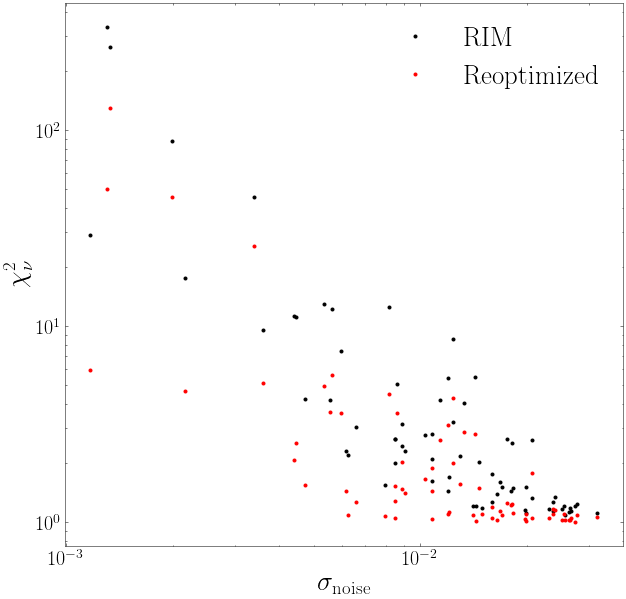
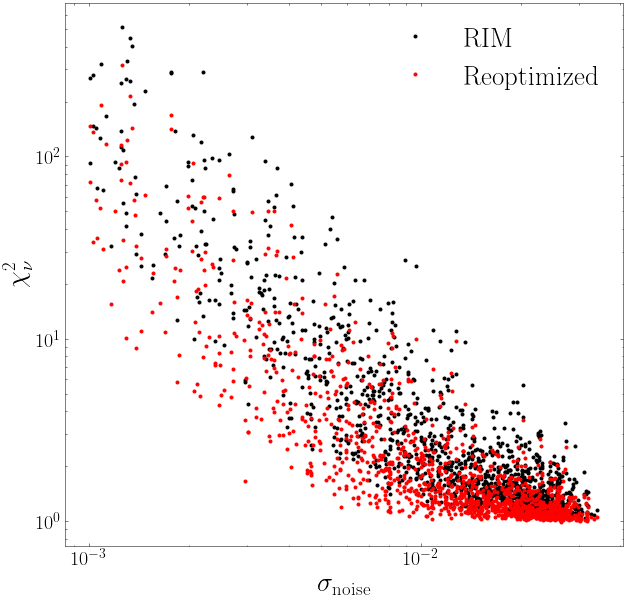
Started preprocessing of horseshoe
Former-commit-id: d2c39b6bad3ec682ea1de74edd06813ea70fc17f
Former-commit-id: e9efaad84a58d655d824be1696b84fe313f1a66d [formerly 04be38bf59bf8195f3d8e57a870bb16df1fab88e]
Former-commit-id: d9aed00347db1cf0688510c53605b65126800ca6

diff --git a/scripts/rim_results_v4_and_optim_posterior2.py b/scripts/rim_results_v4_and_optim_posterior2.py
@@ -107,7 +107,7 @@ def distributed_strategy(args):
             g.create_dataset(name="chi_squared",                            shape=[data_len, rim.steps],                                                        dtype=np.float32)
             g.create_dataset(name="chi_squared_reoptimized",                shape=[data_len, rim.steps],                                                        dtype=np.float32)
             g.create_dataset(name="chi_squared_reoptimized_series",         shape=[data_len, rim.steps, args.re_optimize_steps],                                dtype=np.float32)
-            g.create_dataset(name="chi_squared_reoptimized_mean_pred_series", shape=[data_len, rim.steps, args.re_optimize_steps],                                dtype=np.float32)
+            g.create_dataset(name="chi_squared_reoptimized_mean_pred_series", shape=[data_len, rim.steps, args.re_optimize_steps - args.burn_in],                                dtype=np.float32)
             g.create_dataset(name="sampled_chi_squared_reoptimized_series", shape=[data_len, args.re_optimize_steps],                                           dtype=np.float32)
             g.create_dataset(name="source_optim_mse",                       shape=[data_len],                                                                   dtype=np.float32)
             g.create_dataset(name="source_optim_mse_series",                shape=[data_len, args.re_optimize_steps],                                           dtype=np.float32)
@@ -178,28 +178,29 @@ def distributed_strategy(args):
                 kappa_best = kappa_pred[-1]
                 source_mse_best = tf.reduce_mean((source_best - source) ** 2)
                 kappa_mse_best = tf.reduce_mean((kappa_best - log_10(kappa)) ** 2)
+
+                # ===================== VAE SAMPLING for PRIOR ==============================
+                # Latent code of model predictions
+                z_source, _ = source_vae.encoder(source_o)
+                z_kappa, _ = kappa_vae.encoder(log_10(kappa_o))
+
+                # L1 distance with ground truth in latent space -- this is changed by an user defined value when using real data
+                # z_source_std = tf.abs(z_source - z_source_gt)
+                # z_kappa_std = tf.abs(z_kappa - z_kappa_gt)
+                z_source_std = args.source_vae_ball_size
+                z_kappa_std = args.kappa_vae_ball_size
+
+                # Sample latent code, then decode and forward
+                z_s = tf.random.normal(shape=[args.sample_size, source_vae.latent_size], mean=z_source, stddev=z_source_std)
+                z_k = tf.random.normal(shape=[args.sample_size, kappa_vae.latent_size], mean=z_kappa, stddev=z_kappa_std)
+                sampled_source = tf.nn.relu(source_vae.decode(z_s))
+                sampled_source /= tf.reduce_max(sampled_source, axis=(1, 2, 3), keepdims=True)
+                sampled_kappa = kappa_vae.decode(z_k)  # output in log_10 space
+                sampled_lens = phys.noisy_forward(sampled_source, 10 ** sampled_kappa, noise_rms,
+                                                  tf.tile(psf, [args.sample_size, 1, 1, 1]))
+
+                # ===================== Optimization ==============================
                 for current_step in tqdm(range(STEPS)):
-                    if current_step % args.resample_every == 0:
-                        # ===================== VAE SAMPLING for PRIOR ==============================
-                        # Latent code of model predictions
-                        z_source, _ = source_vae.encoder(source_o)
-                        z_kappa, _ = kappa_vae.encoder(log_10(kappa_o))
-
-                        # L1 distance with ground truth in latent space -- this is changed by an user defined value when using real data
-                        # z_source_std = tf.abs(z_source - z_source_gt)
-                        # z_kappa_std = tf.abs(z_kappa - z_kappa_gt)
-                        z_source_std = args.source_vae_ball_size
-                        z_kappa_std = args.kappa_vae_ball_size
-
-                        # Sample latent code, then decode and forward
-                        z_s = tf.random.normal(shape=[args.sample_size, source_vae.latent_size], mean=z_source, stddev=z_source_std)
-                        z_k = tf.random.normal(shape=[args.sample_size, kappa_vae.latent_size], mean=z_kappa, stddev=z_kappa_std)
-                        sampled_source = tf.nn.relu(source_vae.decode(z_s))
-                        sampled_source /= tf.reduce_max(sampled_source, axis=(1, 2, 3), keepdims=True)
-                        sampled_kappa = kappa_vae.decode(z_k)  # output in log_10 space
-                        sampled_lens = phys.noisy_forward(sampled_source, 10 ** sampled_kappa, noise_rms, tf.tile(psf, [args.sample_size, 1, 1, 1]))
-
-                    # ===================== Optimization ==============================
                     with tf.GradientTape() as tape:
                         tape.watch(unet.trainable_variables)
                         s, k, chi_sq = rim.call(sampled_lens, noise_rms, tf.tile(psf, [args.sample_size, 1, 1, 1]), outer_tape=tape)
@@ -251,9 +252,9 @@ def distributed_strategy(args):
                         delta2 = y_o - y_mean
                         y_var += delta * delta2
 
-                    y_mean_pred = phys.forward(tf.nn.relu(source_mean), 10**kappa_mean, psf)
-                    chisq = tf.reduce_mean((y_mean_pred - lens)**2/noise_rms[:, None, None, None]**2)
-                    chi_squared_series_mean_pred = chi_squared_series_mean_pred.write(index=current_step, value=chisq)
+                        y_mean_pred = phys.forward(tf.nn.relu(source_mean), 10**kappa_mean, psf)
+                        chisq = tf.reduce_mean((y_mean_pred - lens)**2/noise_rms[:, None, None, None]**2)
+                        chi_squared_series_mean_pred = chi_squared_series_mean_pred.write(index=current_step, value=chisq)
 
                 source_o = source_best
                 kappa_o = kappa_best
@@ -362,17 +363,16 @@ if __name__ == '__main__':
     parser.add_argument("--kappa_vae",          required=True)
     parser.add_argument("--compression_type",   default="GZIP")
     parser.add_argument("--test_dataset",       required=True)
-    parser.add_argument("--test_size",          default=5000,       type=int)
+    parser.add_argument("--test_size",          default=3000,       type=int)
     parser.add_argument("--buffer_size",        default=10000,      type=int)
     parser.add_argument("--sample_size",        default=10,         type=int)
     parser.add_argument("--lens_coherence_bins",    default=40,     type=int)
     parser.add_argument("--source_coherence_bins",  default=40,     type=int)
     parser.add_argument("--kappa_coherence_bins",   default=40,     type=int)
-    parser.add_argument("--re_optimize_steps",  default=3000,       type=int)
-    parser.add_argument("--burn-in",            default=200,        type=int)
-    parser.add_argument("--resample_every",     default=50,         type=int,   help="Resample from the VAE every x steps")
-    parser.add_argument("--source_vae_ball_size",   default=0.5,    type=float, help="Standard deviation of the source VAE latent space sampling around RIM prediction")
-    parser.add_argument("--kappa_vae_ball_size",    default=0.5,    type=float, help="Standard deviation of the kappa VAE latent space sampling around RIM prediction")
+    parser.add_argument("--re_optimize_steps",  default=2000,       type=int)
+    parser.add_argument("--burn-in",            default=1500,       type=int)
+    parser.add_argument("--source_vae_ball_size",   default=0.4,    type=float, help="Standard deviation of the source VAE latent space sampling around RIM prediction")
+    parser.add_argument("--kappa_vae_ball_size",    default=0.4,    type=float, help="Standard deviation of the kappa VAE latent space sampling around RIM prediction")
     parser.add_argument("--l2_amp",             default=1e-6,       type=float)
     parser.add_argument("--learning_rate",      default=1e-6,       type=float)
     parser.add_argument("--decay_rate",         default=1,          type=float)

diff --git a/scripts/rim_pred_on_vae.py b/scripts/rim_pred_on_vae.py
@@ -13,6 +13,7 @@ N_WORKERS = int(os.getenv('SLURM_ARRAY_TASK_COUNT', 1))
 # defaults to zero if not running under SLURM
 THIS_WORKER = int(os.getenv('SLURM_ARRAY_TASK_ID', 0)) ## it starts from 1!!
 
+
 def main(args):
     with open(os.path.join(args.kappa_model, "model_hparams.json"), "r") as f:
         kappa_vae_hparams = json.load(f)
